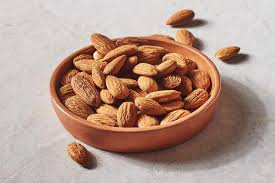
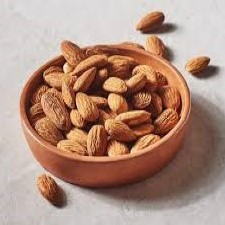
Styling shop product. Manually resized image to 1:1

diff --git a/assets/css/shop.css b/assets/css/shop.css
@@ -1,12 +1,38 @@
 #shop-title {
     text-align: center;
-    padding: 2rem auto;
+    padding: 5dvh 0;
+    font-size: 3rem;
 }
 
 #product-section {
     display: grid;
-    grid-template-columns: repeat(3, 20%);
+    grid-template-columns: repeat(3, 17%);
     margin: auto;
     justify-content: center;
-    column-gap: 3rem;
+    column-gap: 5rem;
+    row-gap: 6rem;
+}
+
+.product-item {
+    display: flex;
+    flex-direction: column;
+    align-items: center; /* Center the content inside */
+    justify-content: flex-start;
+}
+
+.product-image {
+    width: 100%;
+    aspect-ratio: 1 / 1;
+}
+
+.product-name {
+    font-weight: 800;
+    font-size: x-large;
+    margin: 0;
+    padding: 1rem;
+}
+
+.product-description {
+    flex-grow: 1;
+    margin: 0;    
 }
